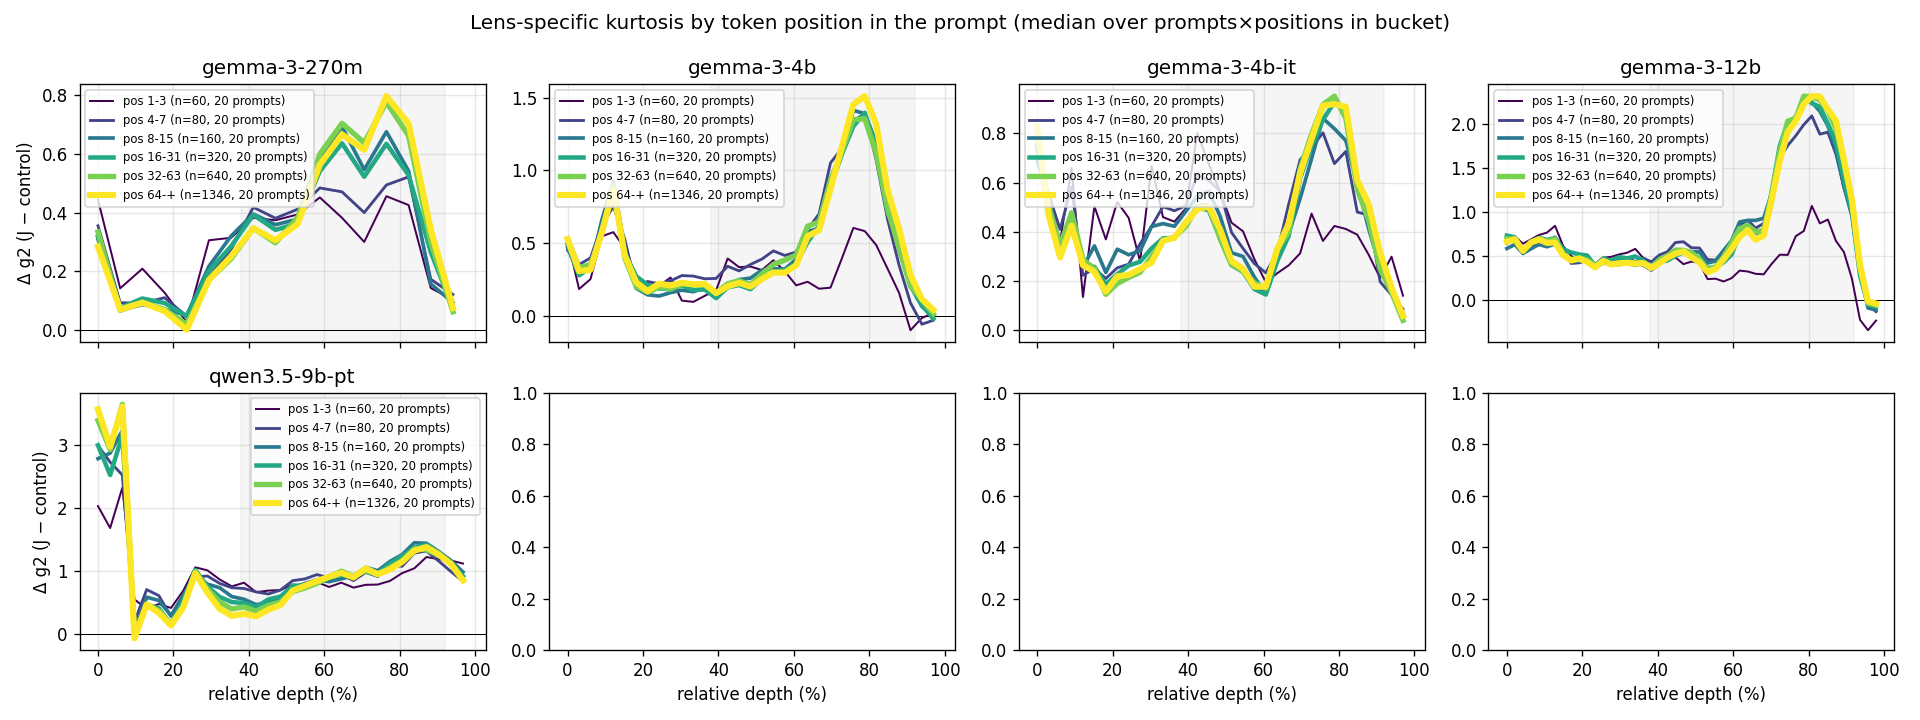
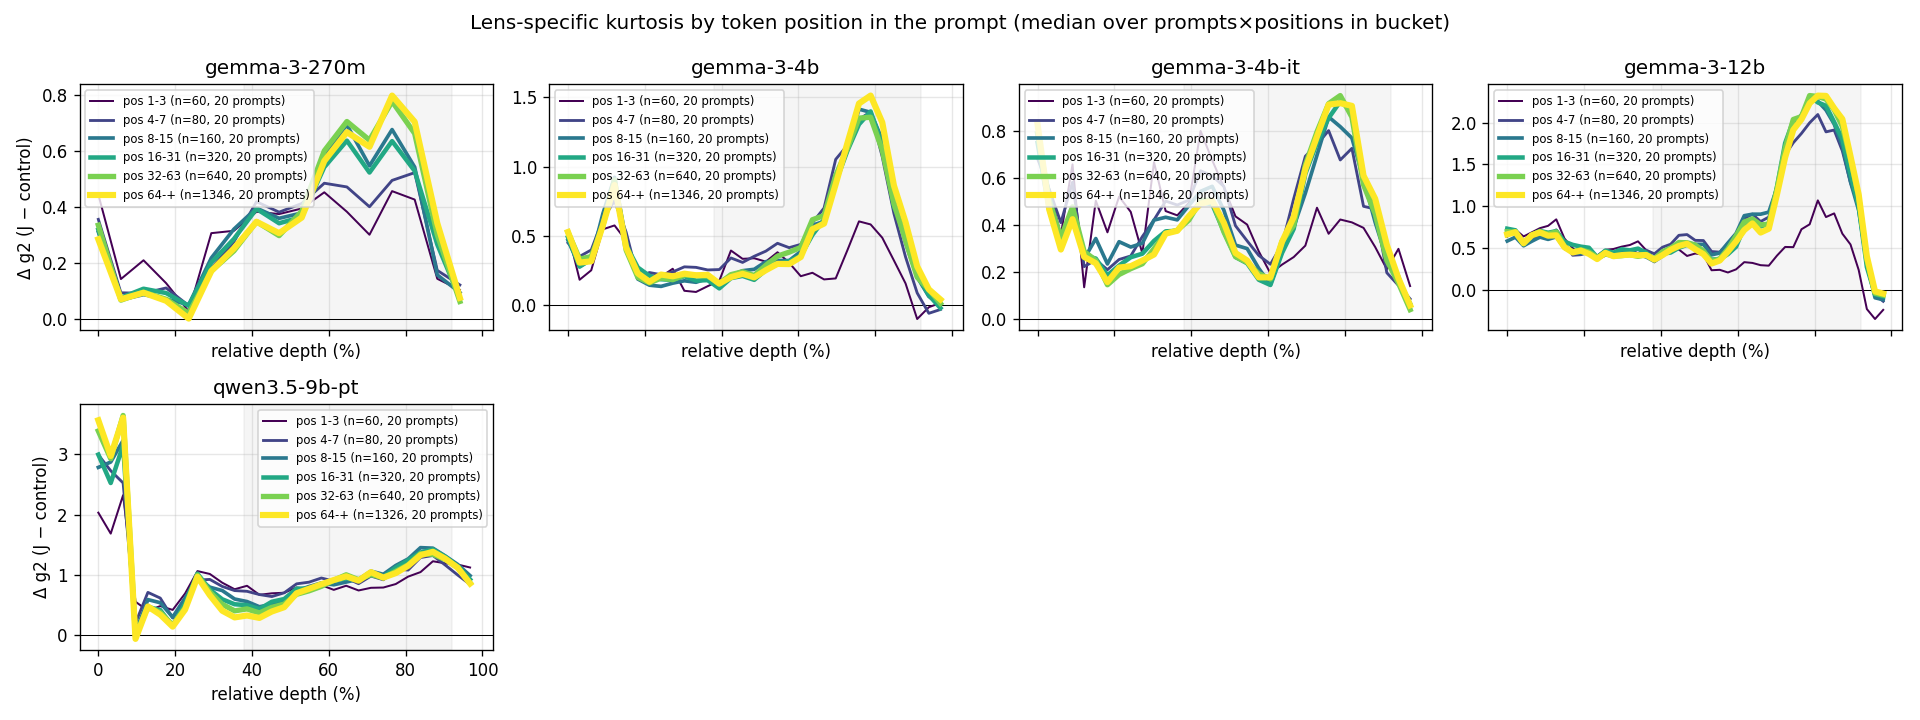
jacobian-lens-scale: hide unused panels in the position grid (5 models on a 2x4 grid left 3 empty axes)
Claude-Session: https://claude.ai/code/session_01AdQudqVCar8M8fDxSrKajS

diff --git a/experiments/jacobian-lens-scale/plot_diff_position.py b/experiments/jacobian-lens-scale/plot_diff_position.py
@@ -1,15 +1,13 @@
-"""Lens-specific figures (J-Lens minus logit-lens control):
-  1. diff_<short>.png / diff_all_models.png: J minus control (median per layer),
-     95% CI by bootstrap OVER PROMPTS (positions within a prompt are correlated,
-     so prompts are resampled, not positions). Position 0 (BOS) and the final
-     layer (identical in all arms by construction) are EXCLUDED.
-  2. position_all_models.png: same J-C, by token-position bucket in the prompt.
-  3. position_within_prompt.txt: control for the "prompt" confounder — on the
-     long prompts only (>=16 tokens), positions 1-5 vs 11-15 of the SAME prompts.
-  4. heatmap_<short>.png: J-C over (depth x position) for the larger models.
-With the tag "_long" (argv[1]) the same figures are produced from the long-prompt
-run (kurtosis_<short>_long.json), with wider position buckets and a 40-59 late window.
-Reads only results/kurtosis_<short>[<tag>].json — no model is loaded.
+"""Figures P6 complementaires (03/09, soir) :
+  1. diff_<short>.png / diff_all_models.png : J-Lens moins controle (mediane par couche),
+     IC95 bootstrap PAR PROMPT (les positions d'un meme prompt sont correlees, on
+     reechantillonne les prompts, pas les positions). Position 0 (BOS) et derniere
+     couche (identique dans tous les bras par construction) EXCLUES.
+  2. position_all_models.png : meme J-C, par tranche de position dans le prompt.
+  3. position_within_prompt.txt : controle du confondant "prompt" — sur les seuls
+     prompts longs (>=16 tokens), positions 1-5 vs 11-15 des MEMES prompts.
+  4. heatmap_<short>.png : J-C en (profondeur x position) pour 4b et 12b.
+Lit uniquement results/kurtosis_<short>.json — aucun modele charge.
 """
 import json
 import numpy as np
@@ -19,13 +17,14 @@ import matplotlib.pyplot as plt
 from pathlib import Path
 import sys
 
-TAG = sys.argv[1] if len(sys.argv) > 1 else ""      # e.g. "_long" -> reads kurtosis_<short>_long.json
+TAG = sys.argv[1] if len(sys.argv) > 1 else ""      # ex. "_long" -> lit kurtosis_<short>_long.json
 
 HERE = Path(__file__).parent
 FIG = HERE / "figures"
 ORDER_ALL = ['gemma-3-270m', 'gemma-3-270m-it', 'gemma-3-1b', 'gemma-3-1b-it',
          'gemma-3-4b', 'gemma-3-4b-it', 'gemma-3-12b', 'gemma-3-12b-it',
-         'qwen3.5-0.8b', 'qwen3.5-2b-pt', 'qwen3.5-4b', 'qwen3.5-9b-pt']
+         'qwen3.5-0.8b', 'qwen3.5-2b-pt', 'qwen3.5-4b', 'qwen3.5-9b-pt',
+         'qwen3-1.7b', 'qwen3-4b', 'qwen3-8b', 'qwen3-14b']   # qwen3 family: post-timecap annex
 BUCKETS = [(1, 3), (4, 7), (8, 12), (13, 99)] if not TAG else [(1, 3), (4, 7), (8, 15), (16, 31), (32, 63), (64, 999)]
 rng = np.random.default_rng(0)
 ORDER = [m for m in ORDER_ALL if (HERE / f'results/kurtosis_{m}{TAG}.json').exists()]
@@ -39,8 +38,8 @@ def load(m):
     pid = np.concatenate([[i] * n for i, n in enumerate(sl)])
     pos = np.concatenate([np.arange(n) for n in sl])
     assert len(pid) == J.shape[1]
-    keep = pos >= 1                      # BOS excluded
-    J, C, pid, pos = J[:-1, keep], C[:-1, keep], pid[keep], pos[keep]   # final layer excluded
+    keep = pos >= 1                      # BOS exclue
+    J, C, pid, pos = J[:-1, keep], C[:-1, keep], pid[keep], pos[keep]   # derniere couche exclue
     dep = 100 * np.arange(L - 1) / (L - 1)
     return J, C, pid, pos, dep
 
@@ -58,7 +57,7 @@ def boot_ci(J, C, pid, n=1000):
     return np.percentile(out, [2.5, 97.5], axis=0)
 
 
-# ---------- 1. J - C with bootstrap CI ----------
+# ---------- 1. J - C avec IC bootstrap ----------
 ncol = 4; nrow = -(-len(ORDER) // ncol)
 fig_all, axes = plt.subplots(nrow, ncol, figsize=(16, 3 * nrow), sharex=True, squeeze=False)
 for ax, m in zip(axes.flat, ORDER):
@@ -86,7 +85,7 @@ for a in axes[:, 0]: a.set_ylabel('Δ g2 (J − control)')
 fig_all.suptitle('J-Lens minus logit-lens control — median over prompts×positions (pos ≥ 1), 95% CI by prompt bootstrap, final layer excluded')
 fig_all.tight_layout(); fig_all.savefig(FIG / f'diff_all_models{TAG}.png', dpi=120); plt.close(fig_all)
 
-# ---------- 2. by position bucket ----------
+# ---------- 2. par tranche de position ----------
 fig, axes = plt.subplots(nrow, ncol, figsize=(16, 3 * nrow), sharex=True, squeeze=False)
 for ax, m in zip(axes.flat, ORDER):
     J, C, pid, pos, dep = load(m)
@@ -109,12 +108,13 @@ for ax, m in zip(axes.flat, ORDER):
     a1.set_xlabel('relative depth (%)'); a1.set_ylabel('Δ g2 (J − control)')
     a1.set_title(f'{m}{TAG} — lens-specific kurtosis by token position'); a1.legend(fontsize=8); a1.grid(alpha=.3)
     f1.tight_layout(); f1.savefig(FIG / f'position_{m}{TAG}.png', dpi=130); plt.close(f1)
-for a in axes[-1]: a.set_xlabel('relative depth (%)')
+for a in axes.flat[len(ORDER):]: a.set_visible(False)   # hide unused panels
+for a in axes.flat[:len(ORDER)]: a.set_xlabel('relative depth (%)')
 for a in axes[:, 0]: a.set_ylabel('Δ g2 (J − control)')
 fig.suptitle('Lens-specific kurtosis by token position in the prompt (median over prompts×positions in bucket)')
 fig.tight_layout(); fig.savefig(FIG / f'position_all_models{TAG}.png', dpi=120); plt.close(fig)
 
-# ---------- 3. within-prompt control for the prompt confounder ----------
+# ---------- 3. controle du confondant prompt ----------
 lines = [f'TAG={TAG!r} — model | long prompts | peak(J-C) pos1-5 | peak(J-C) late window (11-15, or 40-59 for _long) | per-prompt sign (late>early) | CI95 boot of (late-early) peak']
 for m in ORDER:
     J, C, pid, pos, dep = load(m)
@@ -138,8 +138,8 @@ for m in ORDER:
 (HERE / f'position_within_prompt{TAG}.txt').write_text('\n'.join(lines) + '\n')
 print('\n'.join(lines))
 
-# ---------- 4. depth x position heatmaps ----------
-for m in [x for x in ['gemma-3-4b', 'gemma-3-12b', 'qwen3.5-9b-pt'] if x in ORDER]:
+# ---------- 4. heatmaps profondeur x position ----------
+for m in [x for x in ['gemma-3-4b', 'gemma-3-12b', 'qwen3.5-9b-pt', 'qwen3-14b'] if x in ORDER]:
     J, C, pid, pos, dep = load(m)
     P = 20 if not TAG else min(int(pos.max()), 120)
     H = np.full((len(dep), P), np.nan)
